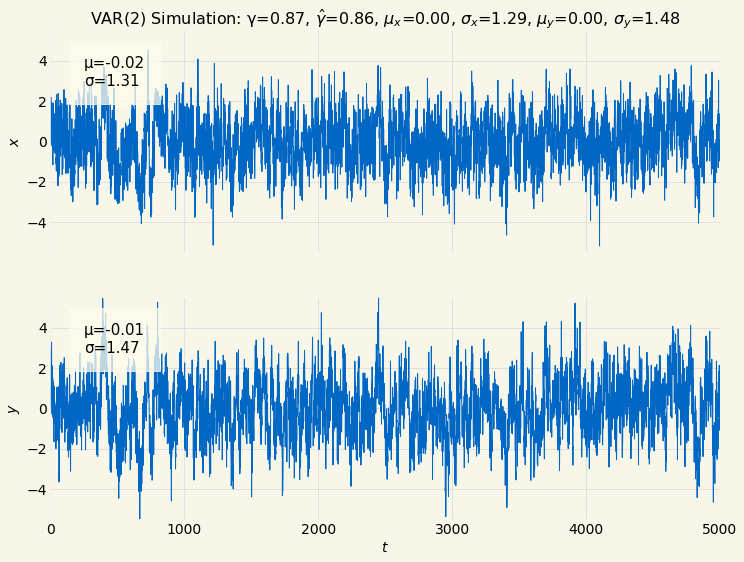
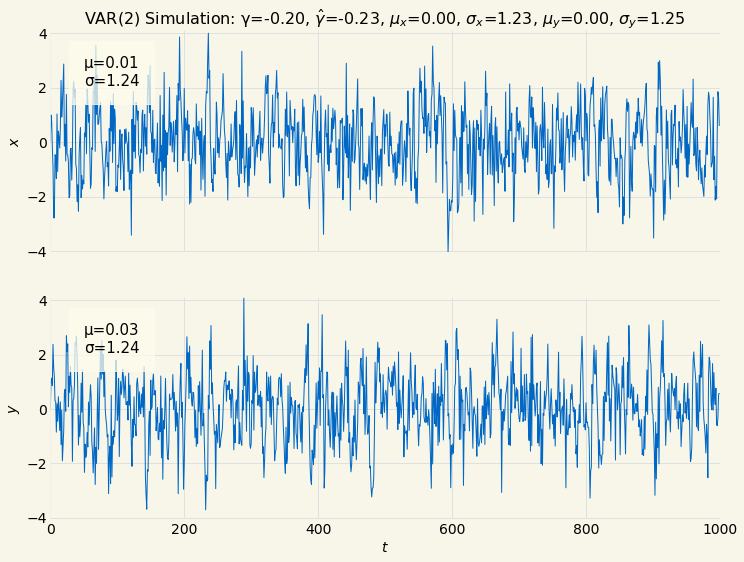
added theta esimation examples

diff --git a/hydrogen_notebooks/algorithmic_trading/mean_reversion/vector_autoregression_parameter_estimation.py b/hydrogen_notebooks/algorithmic_trading/mean_reversion/vector_autoregression_parameter_estimation.py
@@ -47,10 +47,8 @@ def theta_parameter_estimation_form(xt):
 ])
 var.eigen_values(φ)
 x0 = numpy.array([[0.0, 1.0], [0.0, 1.0]])
-n = 10000
+n = 1000
 xt = var.var_simulate(x0, μ, φ, ω, n)
-
-theta_parameter_estimation_form(xt)
 
 # %%
 
@@ -68,3 +66,84 @@ ylabel = [r"$x$", r"$y$"]
 var.timeseries_plot(xt, ylabel, title, plot_name)
 
 # %%
+
+n = 50000
+xt = var.var_simulate(x0, μ, φ, ω, n)
+theta = theta_parameter_estimation_form(xt)
+numpy.matrix(theta[:,0:2])
+numpy.matrix(theta[:,2:])
+
+# %%
+
+μ = [0.0, 0.0]
+ω = numpy.matrix([[1.0, 0.0], [0.0, 1.0]])
+φ = numpy.array([
+        numpy.matrix([[0.2, 0.2],
+                      [0.2, 0.3]]),
+        numpy.matrix([[0.3, 0.2],
+                     [0.1, 0.4]])
+])
+var.eigen_values(φ)
+x0 = numpy.array([[0.0, 1.0], [0.0, 1.0]])
+n = 1000
+xt = var.var_simulate(x0, μ, φ, ω, n)
+
+# %%
+
+M = var.stationary_mean(φ, μ)
+Σ = var.stationary_covariance_matrix(φ, ω)
+cov = stats.covaraince(xt[0], xt[1])
+plot_name = "var_2_estimation_2_x_y_timeseries"
+title = f"VAR(2) Simulation: γ={format(Σ[0,1], '2.2f')}, " + \
+         r"$\hat{\gamma}$=" + f"{format(cov, '2.2f')}, " + \
+         r"$μ_x$=" + f"{format(M[0,0], '2.2f')}, " + \
+         r"$σ_x$=" + f"{format(numpy.sqrt(Σ[0,0]), '2.2f')}, " + \
+         r"$μ_y$=" + f"{format(M[1,0], '2.2f')}, " + \
+         r"$σ_y$=" + f"{format(numpy.sqrt(Σ[1,1]), '2.2f')}"
+ylabel = [r"$x$", r"$y$"]
+var.timeseries_plot(xt, ylabel, title, plot_name)
+
+# %%
+
+n = 50000
+xt = var.var_simulate(x0, μ, φ, ω, n)
+theta = theta_parameter_estimation_form(xt)
+numpy.matrix(theta[:,0:2])
+numpy.matrix(theta[:,2:])
+# %%
+
+μ = [0.0, 0.0]
+ω = numpy.matrix([[1.0, 0.0], [0.0, 1.0]])
+φ = numpy.array([
+        numpy.matrix([[0.2, -0.2],
+                      [0.2, 0.3]]),
+        numpy.matrix([[0.3, -0.2],
+                     [0.1, 0.4]])
+])
+var.eigen_values(φ)
+x0 = numpy.array([[0.0, 1.0], [0.0, 1.0]])
+n = 1000
+xt = var.var_simulate(x0, μ, φ, ω, n)
+
+# %%
+
+M = var.stationary_mean(φ, μ)
+Σ = var.stationary_covariance_matrix(φ, ω)
+cov = stats.covaraince(xt[0], xt[1])
+plot_name = "var_2_estimation_1_x_y_timeseries"
+title = f"VAR(2) Simulation: γ={format(Σ[0,1], '2.2f')}, " + \
+         r"$\hat{\gamma}$=" + f"{format(cov, '2.2f')}, " + \
+         r"$μ_x$=" + f"{format(M[0,0], '2.2f')}, " + \
+         r"$σ_x$=" + f"{format(numpy.sqrt(Σ[0,0]), '2.2f')}, " + \
+         r"$μ_y$=" + f"{format(M[1,0], '2.2f')}, " + \
+         r"$σ_y$=" + f"{format(numpy.sqrt(Σ[1,1]), '2.2f')}"
+ylabel = [r"$x$", r"$y$"]
+var.timeseries_plot(xt, ylabel, title, plot_name)
+
+# %%
+
+n = 50000
+xt = var.var_simulate(x0, μ, φ, ω, n)
+theta = theta_parameter_estimation_form(xt)
+numpy.matrix(theta[:,0:2])
+numpy.matrix(theta[:,2:])
